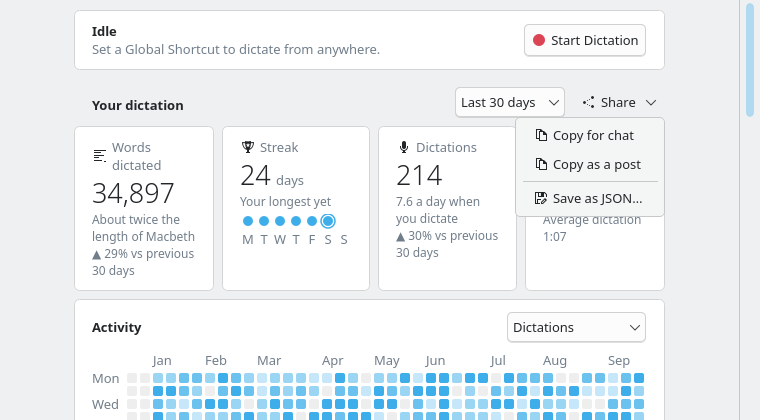
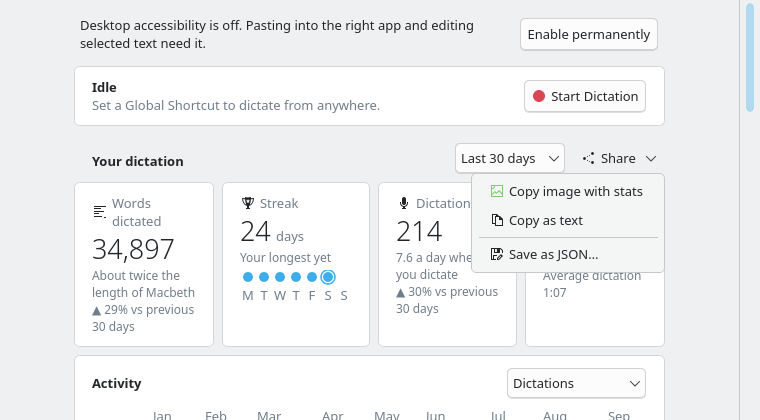
Copy Home stats as an image; drop the post text
Share now leads with "Copy image with stats": the period's numbers over the
year's heatmap, drawn by Home's own card and heatmap widgets at 2x and put on
the clipboard as a PNG. "Copy as text" and "Save as JSON…" stay; the X post
option is gone.

diff --git a/src/ui/HomePage.cpp b/src/ui/HomePage.cpp
@@ -20,6 +20,7 @@
 #include <QGuiApplication>
 #include <QHBoxLayout>
 #include <QIcon>
+#include <QImage>
 #include <QLabel>
 #include <QLocale>
 #include <QMenu>
@@ -214,6 +215,84 @@ QString twoLines(const QString &text, const QFont &font, int width)
     const QString rest = text.mid(second.textStart());
     return text.left(second.textStart())
         + QFontMetrics(font).elidedText(rest.simplified(), Qt::ElideRight, width);
+}
+
+
+// The picture "Copy image with stats" puts on the clipboard: the period's four
+// numbers over the year's heatmap, drawn by the same widgets as Home at twice
+// the scale so it stays sharp wherever it is pasted.
+QImage statsImage(const InsightsSummary &summary, InsightsRange range, HeatMeasure measure)
+{
+    QWidget root;
+    root.setAttribute(Qt::WA_DontShowOnScreen);
+    root.setAutoFillBackground(true);
+    auto *outer = new QVBoxLayout(&root);
+    outer->setContentsMargins(QMargins() + settings::largeSpacing());
+    QVBoxLayout *content = nullptr;
+    QFrame *card = makeCard(&root, &content);
+    outer->addWidget(card);
+    QWidget *host = content->parentWidget();
+
+    auto *title = new QHBoxLayout;
+    title->addWidget(boldLabel(QStringLiteral("My Speecher stats"), host), 1);
+    QLabel *period = mutedLabel(capitalized(insightsPeriodName(range)), host, false);
+    period->setWordWrap(false);
+    title->addWidget(period);
+    content->addLayout(title);
+
+    auto *numbers = new QHBoxLayout;
+    numbers->setSpacing(settings::largeSpacing() * 2);
+    const QString audio = audioTotalText(summary.audioMs);
+    const auto stat = [host, numbers](const QString &label, QWidget *value) {
+        auto *column = new QVBoxLayout;
+        column->setSpacing(0);
+        QLabel *caption = mutedLabel(label, host, false);
+        caption->setWordWrap(false);
+        column->addWidget(caption);
+        value->setParent(host);
+        column->addWidget(value);
+        numbers->addLayout(column);
+    };
+    stat(QStringLiteral("Words dictated"), bigNumber({{number(summary.words), {}}}, nullptr));
+    stat(QStringLiteral("Dictations"), bigNumber({{number(summary.dictations), {}}}, nullptr));
+    stat(QStringLiteral("Audio"), bigNumber({{audio.section(u' ', 0, -2), audio.section(u' ', -1)}}, nullptr));
+    stat(QStringLiteral("Streak"),
+         bigNumber({{number(summary.currentStreak),
+                     summary.currentStreak == 1 ? QStringLiteral("day") : QStringLiteral("days")}},
+                   nullptr));
+    numbers->addStretch();
+    content->addLayout(numbers);
+    if (summary.wordsPerMinute > 0) {
+        content->addWidget(mutedLabel(QStringLiteral("%1 · %2 words per minute")
+                                          .arg(summary.bookComparison, number(summary.wordsPerMinute)),
+                                      host, false));
+    }
+
+    content->addSpacing(settings::relatedSpacing());
+    auto *heatmap = new InsightsHeatmap(InsightsHeatmap::Shape::Year, host);
+    heatmap->setDays(summary.heatmap);
+    heatmap->setMeasure(measure);
+    heatmap->setFixedWidth(heatmap->sizeHint().width());
+    content->addWidget(heatmap);
+    auto *foot = new QHBoxLayout;
+    foot->setSpacing(settings::relatedSpacing());
+    foot->addWidget(mutedLabel(QStringLiteral("%1 with dictation in the last year")
+                                   .arg(plural(summary.activeDaysLastYear, QStringLiteral("day"),
+                                               QStringLiteral("days"))),
+                               host),
+                    1);
+    foot->addWidget(mutedLabel(QStringLiteral("Less"), host));
+    foot->addWidget(new InsightsHeatmap(InsightsHeatmap::Shape::Legend, host));
+    foot->addWidget(mutedLabel(QStringLiteral("More"), host));
+    content->addLayout(foot);
+
+    root.adjustSize();
+    constexpr qreal scale = 2;
+    QImage image(root.size() * scale, QImage::Format_ARGB32_Premultiplied);
+    image.setDevicePixelRatio(scale);
+    image.fill(root.palette().color(QPalette::Window));
+    root.render(&image);
+    return image;
 }
 
 } // namespace
@@ -802,14 +881,15 @@ QToolButton *HomePage::buildShareButton(QWidget *parent)
         return summarize(m_controller->insightsLog()->records(), currentRange(), m_summarizedDay);
     };
     auto *menu = new QMenu(button);
-    connect(menu->addAction(themedIcon(QStringLiteral("edit-copy")), QStringLiteral("Copy for chat")),
+    connect(menu->addAction(themedIcon(QStringLiteral("image-x-generic")),
+                            QStringLiteral("Copy image with stats")),
             &QAction::triggered, this, [this, current, report] {
-                QGuiApplication::clipboard()->setText(insightsShareText(current(), currentRange()));
+                QGuiApplication::clipboard()->setImage(statsImage(current(), currentRange(), m_measure));
                 report(QStringLiteral("Copied"));
             });
-    connect(menu->addAction(themedIcon(QStringLiteral("edit-copy")), QStringLiteral("Copy as a post")),
+    connect(menu->addAction(themedIcon(QStringLiteral("edit-copy")), QStringLiteral("Copy as text")),
             &QAction::triggered, this, [this, current, report] {
-                QGuiApplication::clipboard()->setText(insightsPostText(current(), currentRange()));
+                QGuiApplication::clipboard()->setText(insightsShareText(current(), currentRange()));
                 report(QStringLiteral("Copied"));
             });
     menu->addSeparator();

diff --git a/src/core/InsightsExport.cpp b/src/core/InsightsExport.cpp
@@ -19,8 +19,19 @@ QString plural(int count, const QString &noun)
     return QStringLiteral("%1 %2").arg(number(count), count == 1 ? noun : noun + u's');
 }
 
-// "last 30 days", "this year", "all time".
-QString periodName(InsightsRange range)
+QString speedup(const InsightsSummary &summary)
+{
+    return QLocale().toString(double(summary.wordsPerMinute) / summary.typingWordsPerMinute, 'f', 1);
+}
+
+QString isoDate(const QDate &date)
+{
+    return date.toString(Qt::ISODate);
+}
+
+} // namespace
+
+QString insightsPeriodName(InsightsRange range)
 {
     switch (range) {
     case InsightsRange::Last7Days: return QStringLiteral("last 7 days");
@@ -31,39 +42,9 @@ QString periodName(InsightsRange range)
     return QStringLiteral("all time");
 }
 
-// The period as the tail of a sentence: "in the last 30 days", "so far".
-QString periodPhrase(InsightsRange range)
-{
-    switch (range) {
-    case InsightsRange::Last7Days: return QStringLiteral("in the last 7 days");
-    case InsightsRange::Last30Days: return QStringLiteral("in the last 30 days");
-    case InsightsRange::ThisYear: return QStringLiteral("this year");
-    case InsightsRange::AllTime: break;
-    }
-    return QStringLiteral("so far");
-}
-
-QString speedup(const InsightsSummary &summary)
-{
-    return QLocale().toString(double(summary.wordsPerMinute) / summary.typingWordsPerMinute, 'f', 1);
-}
-
-QString lowered(QString text)
-{
-    if (!text.isEmpty()) text[0] = text.at(0).toLower();
-    return text;
-}
-
-QString isoDate(const QDate &date)
-{
-    return date.toString(Qt::ISODate);
-}
-
-} // namespace
-
 QString insightsShareText(const InsightsSummary &summary, InsightsRange range)
 {
-    QStringList lines{QStringLiteral("My Speecher stats, %1").arg(periodName(range))};
+    QStringList lines{QStringLiteral("My Speecher stats, %1").arg(insightsPeriodName(range))};
     lines << QStringLiteral("%1 in %2 (%3 of audio)")
                  .arg(plural(summary.words, QStringLiteral("word")),
                       plural(summary.dictations, QStringLiteral("dictation")),
@@ -92,24 +73,6 @@ QString insightsShareText(const InsightsSummary &summary, InsightsRange range)
     return lines.join(u'\n');
 }
 
-QString insightsPostText(const InsightsSummary &summary, InsightsRange range)
-{
-    QString text = QStringLiteral("I've dictated %1 with Speecher %2")
-                       .arg(plural(summary.words, QStringLiteral("word")), periodPhrase(range));
-    if (summary.words > 0) {
-        text += QStringLiteral(", %1").arg(lowered(summary.bookComparison));
-    }
-    if (summary.wordsPerMinute > 0) {
-        text += QStringLiteral(", at %1 words per minute (%2× faster than typing)")
-                    .arg(number(summary.wordsPerMinute), speedup(summary));
-    }
-    text += u'.';
-    if (summary.currentStreak > 1) {
-        text += QStringLiteral(" %1-day streak and counting.").arg(summary.currentStreak);
-    }
-    return text;
-}
-
 QByteArray insightsJson(const InsightsSummary &summary, InsightsRange range, const QDate &today)
 {
     QJsonArray apps;
@@ -127,7 +90,7 @@ QByteArray insightsJson(const InsightsSummary &summary, InsightsRange range, con
                                 {QStringLiteral("audioMs"), day.audioMs}});
     }
     const QJsonObject period{
-        {QStringLiteral("name"), periodName(range)},
+        {QStringLiteral("name"), insightsPeriodName(range)},
         {QStringLiteral("words"), summary.words},
         {QStringLiteral("dictations"), summary.dictations},
         {QStringLiteral("audioMs"), summary.audioMs},

diff --git a/tests/test_insights.cpp b/tests/test_insights.cpp
@@ -461,21 +461,6 @@ private slots:
                                 "100 words per minute, 2.5× faster than typing\n"
                                 "2-day streak, my longest yet\n"
                                 "Top apps: Kate 100%"));
-        const QString post = insightsPostText(summary, InsightsRange::Last7Days);
-        QCOMPARE(post,
-                 QStringLiteral("I've dictated 150 words with Speecher in the last 7 days, about half "
-                                "the Gettysburg Address, at 100 words per minute (2.5× faster than "
-                                "typing). 2-day streak and counting."));
-    }
-
-    void postFitsOnXForTheMockupSeed()
-    {
-        const InsightsLog log(QFINDTESTDATA("../docs/insights-mockup/seed-active.jsonl"),
-                              InsightsLog::Access::ReadOnly);
-        for (InsightsRange range : {InsightsRange::Last7Days, InsightsRange::Last30Days,
-                                    InsightsRange::ThisYear, InsightsRange::AllTime}) {
-            QVERIFY(insightsPostText(summarize(log.records(), range, kToday), range).size() <= 280);
-        }
     }
 
     void jsonCarriesThePeriodStreakAndActiveDays()

diff --git a/tests/test_app_window.cpp b/tests/test_app_window.cpp
@@ -271,7 +271,11 @@ private slots:
         }
         QCOMPARE(values.first(), QStringLiteral("90"));
         QVERIFY(page.findChild<QWidget *>(QStringLiteral("activityHeatmap")));
-        page.findChild<QToolButton *>(QStringLiteral("shareInsights"))->menu()->actions().first()->trigger();
+        const QList<QAction *> share =
+            page.findChild<QToolButton *>(QStringLiteral("shareInsights"))->menu()->actions();
+        share.at(0)->trigger();
+        QVERIFY(!QGuiApplication::clipboard()->image().isNull());
+        share.at(1)->trigger();
         QVERIFY(QGuiApplication::clipboard()->text().startsWith(
             QStringLiteral("My Speecher stats, last 30 days\n90 words in 1 dictation")));
 

diff --git a/src/core/InsightsExport.h b/src/core/InsightsExport.h
@@ -12,11 +12,11 @@ namespace speecher {
 // period, plus the streak; the JSON also carries the records and every active
 // day of the heatmap.
 
+// "last 30 days", "this year", "all time".
+QString insightsPeriodName(InsightsRange range);
 // A few lines for Slack or any chat: the totals, the pace, the streak and
 // the top apps.
 QString insightsShareText(const InsightsSummary &summary, InsightsRange range);
-// One sentence that fits a 280-character post on X.
-QString insightsPostText(const InsightsSummary &summary, InsightsRange range);
 QByteArray insightsJson(const InsightsSummary &summary, InsightsRange range, const QDate &today);
 
 } // namespace speecher

diff --git a/src/ui/HomePage.h b/src/ui/HomePage.h
@@ -55,7 +55,7 @@ private:
     QFrame *buildCorrectionsCard(QWidget *parent);
     QFrame *buildRecordsCard(const InsightsSummary &summary, QWidget *parent);
     QWidget *buildFooter(QWidget *parent);
-    // Copies the stats for a chat or a post, or saves them as JSON.
+    // Copies the stats as an image or as text, or saves them as JSON.
     QToolButton *buildShareButton(QWidget *parent);
     InsightsRange currentRange() const;
     void applyWidth();

diff --git a/docs/img/share-stats/README.md b/docs/img/share-stats/README.md
@@ -6,3 +6,4 @@ mockup seed (`docs/insights-mockup/seed-active.jsonl`) and today pinned to
 
 - `home-share-button.png`: Home, with Share beside the period picker.
 - `share-menu.png`: the Share menu open.
+- `stats-image.png`: what "Copy image with stats" puts on the clipboard.
